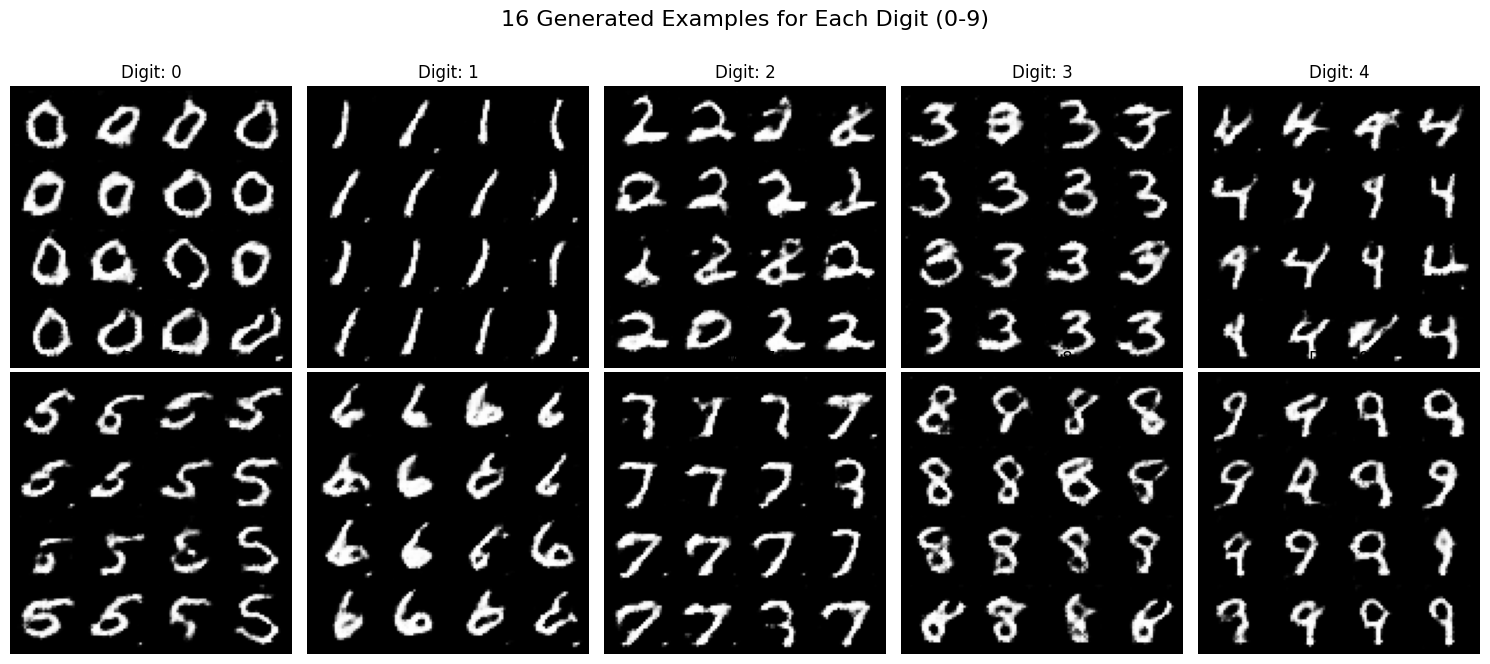
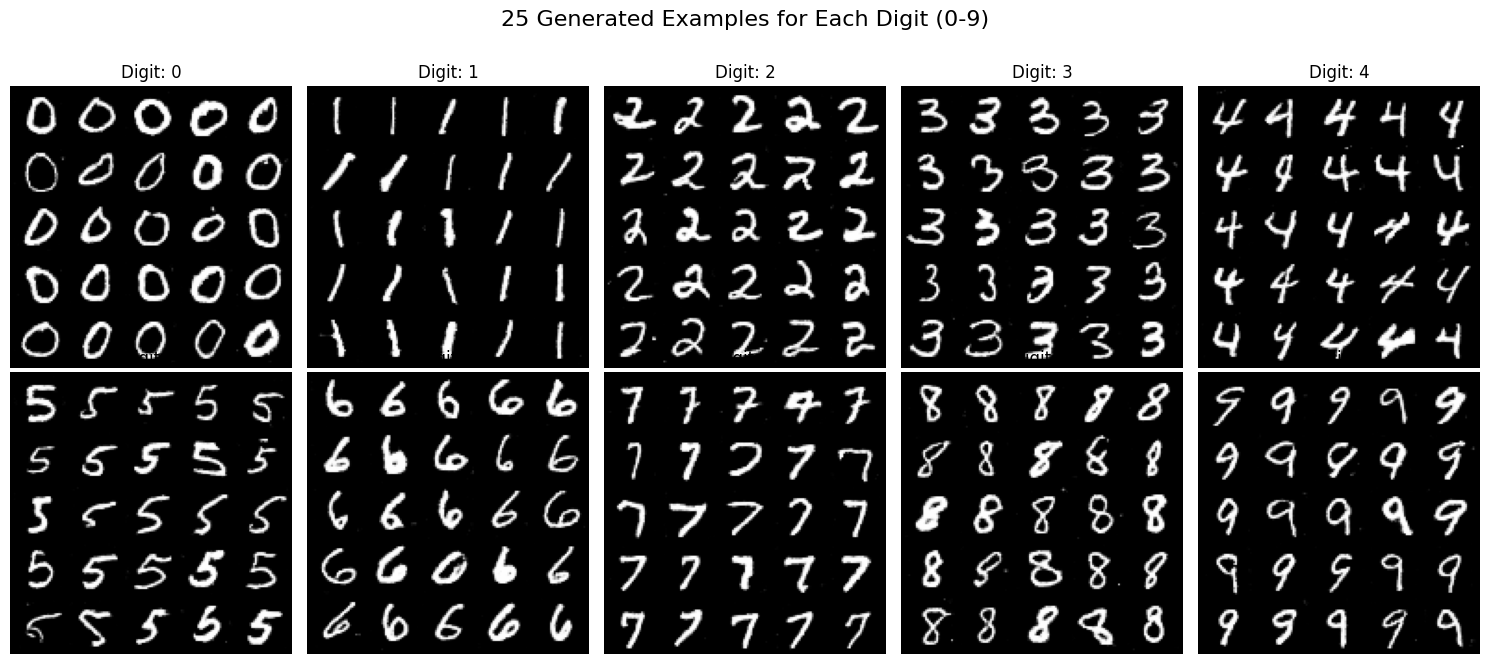
Update cGAN example (#4)
* update cGAN example

* Update README.md

diff --git a/README.md b/README.md
@@ -58,7 +58,7 @@ The implementation uses PyTorch and follows common practices for training cGANs 
 
 ### Output Example
 
-Below is an example grid showing generated digits (0-9) produced by the trained Conditional GAN after 24 epochs. Each row corresponds to a specific digit requested from the generator.
+An example grid showing generated digits (0-9) produced by the trained Conditional GAN after 50 epochs.
 
 ![Generated Digits from Conditional GAN](GANS/outputs/cgan_final_grid.png)
 *(Image generated by `visualize_all_digits` after training)*
